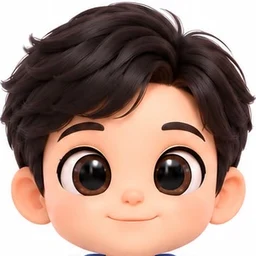
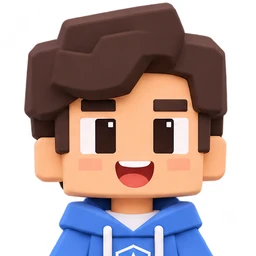
Adam and Baby Ais faces from the new blocky renders
Claude-Session: https://claude.ai/code/session_013wiJDRyxEnuoux6JMkpNFD

diff --git a/tools/icon/make-faces.py b/tools/icon/make-faces.py
@@ -1,0 +1,12 @@
+# The round face pictures on the start page (Adam, Baby Ais): head crops from the art references.
+#   python3 tools/icon/make-faces.py
+from PIL import Image
+def face(src, box, out, bg=(255, 255, 255)):
+    im = Image.open(src).convert('RGBA').crop(box)
+    s = max(im.size); sq = Image.new('RGBA', (s, s), bg + (255,))
+    sq.alpha_composite(im, ((s - im.width) // 2, (s - im.height) // 2))
+    sq.convert('RGB').resize((256, 256), Image.LANCZOS).save(out, quality=90)
+    print(out)
+# Adam: the front view of his model sheet (its backdrop is dark: keep only the head over white)
+face('art/reference/adam-turnaround.png', (45, 15, 545, 515), 'public/img/adam-face.webp')
+face('art/reference/baby-ais-run.png', (20, -50, 800, 730), 'public/img/ais-face.webp')

diff --git a/art/reference/README.md b/art/reference/README.md
@@ -5,9 +5,9 @@ Renders of the blocky Baby Mo family, kept as references for future art. They ar
 | File | What it is | Used for |
 | --- | --- | --- |
 | `baby-mo-run.png` | Baby Mo in his green outfit, waving and walking (cut-out) | The opening page (`public/img/baby-mo-craft.webp`) and the app icon (`tools/icon/make-icon.mjs`) |
-| `baby-ais-run.png` | Baby Ais in her pink hijab and star outfit, walking (cut-out) | Kept for later |
+| `baby-ais-run.png` | Baby Ais in her pink hijab and star outfit, walking (cut-out) | Her face on the start page (`public/img/ais-face.webp`, `tools/icon/make-faces.py`) |
 | `ibrahim-run.png` | Ibrahim (the dad) with his beard, white shirt and backpack, walking (cut-out) | Kept for later |
-| `adam-turnaround.png` | Adam in his blue hoodie: front, side and back | Kept for later (a model sheet for a 3D character) |
+| `adam-turnaround.png` | Adam in his blue hoodie: front, side and back | His face on the start page (`public/img/adam-face.webp`), and a model sheet for his 3D character |
 | `family-run.png` | Ibrahim, Baby Mo and Baby Ais walking together | Kept for later (a banner or store picture) |
 
 The cut-outs had small coloured specks left from the background removal; these copies are cleaned (only the character is kept).

diff --git a/CHANGELOG.md b/CHANGELOG.md
@@ -10,6 +10,9 @@ All notable changes to Baby Mo Island Craft. V2 work follows the plan in
 - The opening page shows the new blocky **Baby Mo** (green outfit, waving as
   he walks in) with a gentle bounce; it stays still with reduced motion. A
   player with a saved world still sees their own face there, as before.
+- The start page's **Adam** and **Baby Ais** faces are the new blocky
+  renders too (head crops from `art/reference`, remade by
+  `python3 tools/icon/make-faces.py`).
 - The **app icon** is the new Baby Mo waving over "Mo Craft" on the same teal
   sky: web icons, the maskable Android icon (kept inside the safe circle), the
   iOS icon and the favicon. `node tools/icon/make-icon.mjs` remakes them all.
